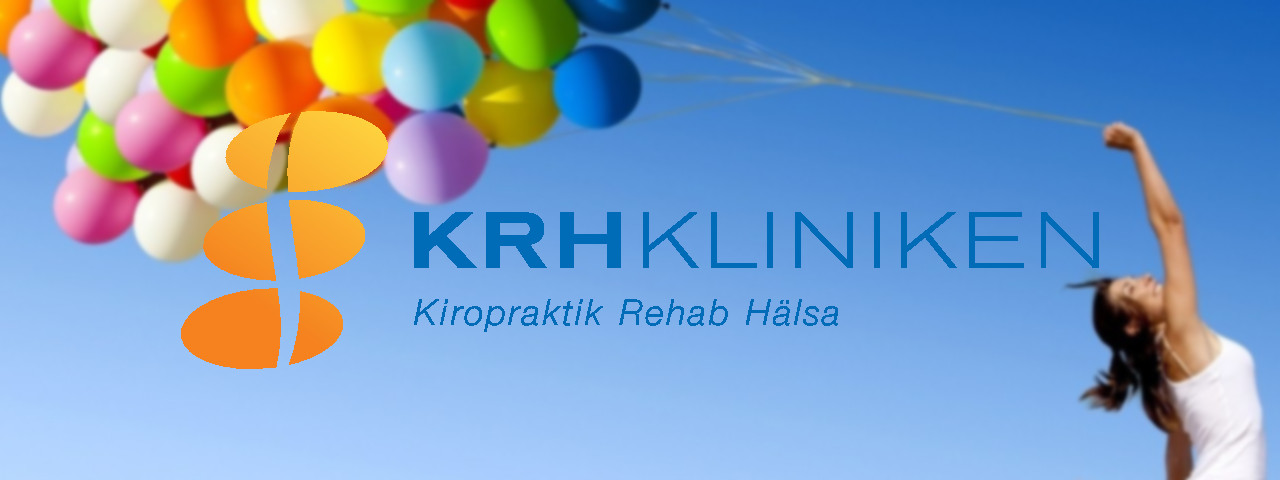
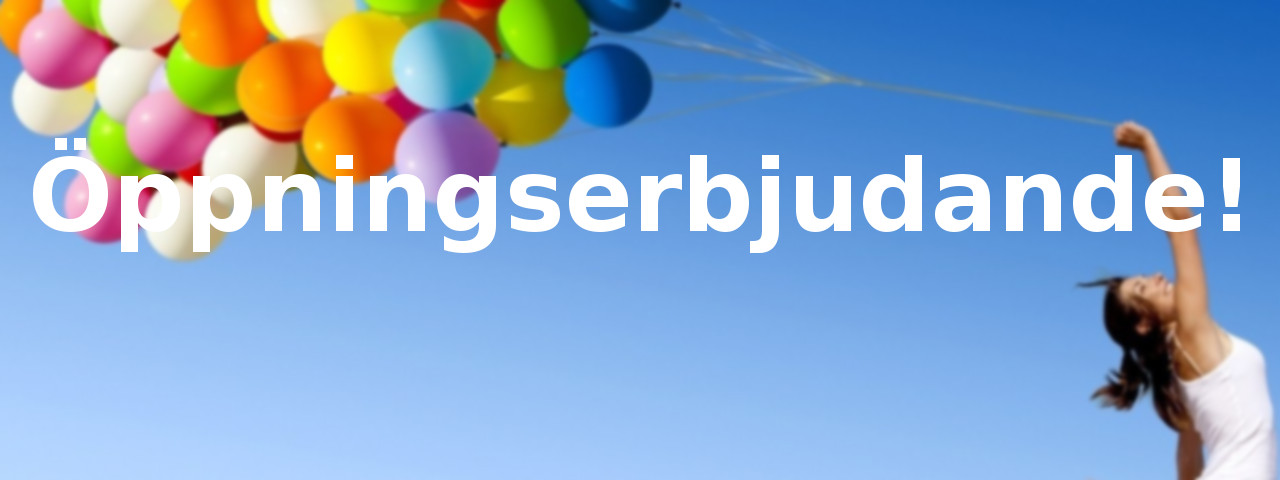
Sort out the offer

diff --git a/templates/prices.html b/templates/prices.html
@@ -8,12 +8,12 @@
         </div>
         <div class="plans">
             {% for plan in page.plans %}
-            <div class='span3 price' >
+            <div class='span4 price' >
                 <div class=" price-header modal-header">
                     <h1>{{ plan.name }}</h1>
                 </div>
                 <div class="price-header modal-header">
-                    <h2>{{ plan.price }}</h2>
+                    <h2>{{ plan.price }} <del>{{ plan.price_old }}</del></h2>
                     <h6>{{ plan.price_sub }}</h6>
                 </div>
                 {% for content in plan.contains %}

diff --git a/static/dynamic/style.less b/static/dynamic/style.less
@@ -156,6 +156,7 @@ h1, h2, h3 {
     ul.social {
         list-style: none;
         font-size: 14px;
+        font-weight: bold;
 
         li a {
             float: right;

diff --git a/pages/offer.md b/pages/offer.md
@@ -3,9 +3,12 @@ title: Öppningserbjudande | KRH Kliniken - Kiropraktik, Rehab & Hälsa
 description: Kiropraktik, Rehab & Hälso Kliniken i Malmö
 # Content
 infos:
-    - heading: Öppningserbjudande - 350 kr / behandling
+    - heading: Öppningserbjudande - 300 kr / behandling
       texts: 
-        - KRH Kliniken har just öppnat och det ska vi fira!!! Därför erbjuder vi alla våra nya kunder på en behandling till det extra rabbaterade priset 350 kr. Passa på och boka en tid hos oss på 040-844 05 eller <a href="mailto:info@krhkliniken.se">info@krhkliniken.se</a>.
+        - KRH Kliniken har just öppnat och det ska vi fira!!!
+        - Därför erbjuder vi alla våra nya kunder en behandling till det extra rabatterade priset 300 kr. 
+        - För detta får du kiropraktisk behandling inkl. allmän hälsoundersökning, diagnos och rehabplan (ord. pris 450kr).
+        - Passa på och boka en tid hos oss! Detta gör du enklast via hemsidan eller på 040-844 05.
       img:
         src: /static/img/opening-offer.jpg
         alt: öppnings erbjudande

diff --git a/pages/prices.md b/pages/prices.md
@@ -6,7 +6,8 @@ heading: Priser
 # Plans - should be 3
 plans:
     - name: Nybesök
-      price: 450 kr
+      price: 300 kr 
+      price_old: 450 kr
       price_sub: .
       contains: 
         - Allmän hälsoundersökning
@@ -35,16 +36,16 @@ plans:
       link:
         route: book
         text: Boka nu       
-    - name: Rabatter  
-      price: -100 kr
-      price_sub: .
-      contains: 
-        - Pensionärer
-        - Studenter
-        - .
-      link:
-        route: book
-        text: Boka nu
+#    - name: Rabatter  
+#      price: -100 kr
+#      price_sub: .
+#      contains: 
+#        - Pensionärer
+#        - Studenter
+#        - .
+#      link:
+#        route: book
+#        text: Boka nu
 plan_info:
     title: Övrig information
     texts:
